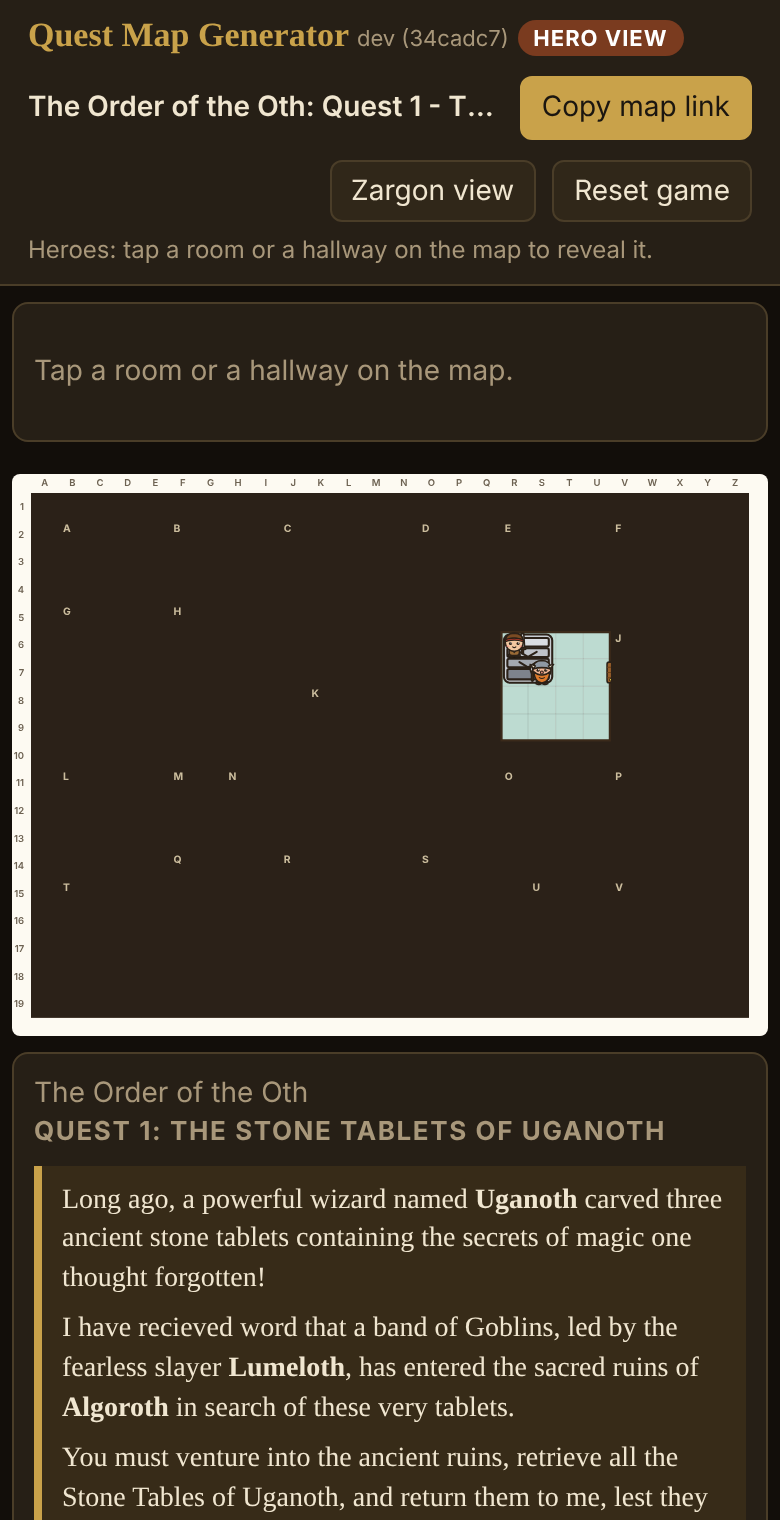
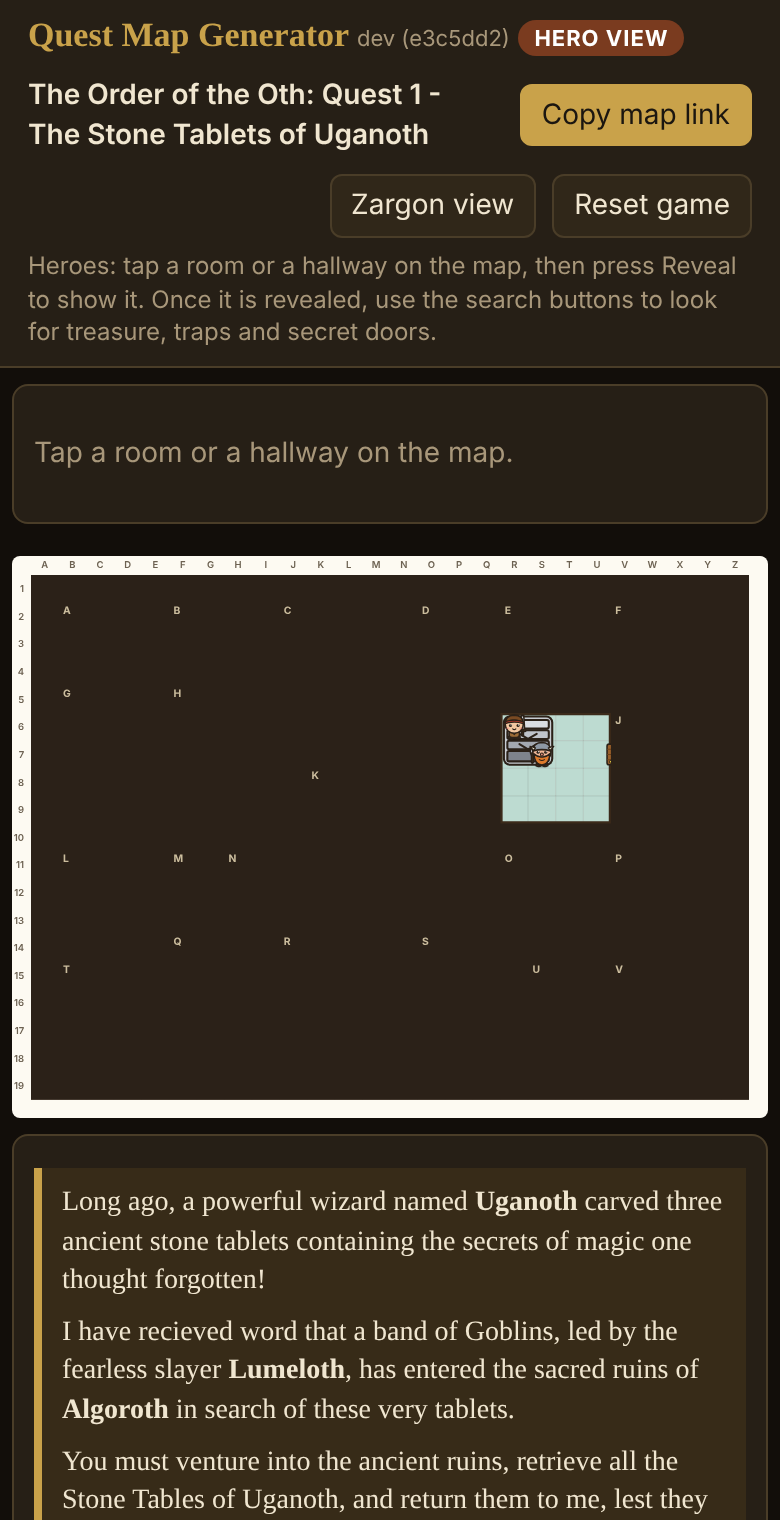
feat: hero header explains how to play and shows the whole quest line
The hero view header now carries a fuller how-to (tap, Reveal, then the
search buttons) and shows the series, number and title wrapped instead of
cut off. The quest card no longer repeats the title, so the same text is
not on screen twice.

This work was substantially AI-generated with human review and
direction throughout.

Vibe-Coder: Vibe-Coder 1.z3r0 <243014891+vibecoder-1z3r0@users.noreply.github.com>

diff --git a/src/js/ui.js b/src/js/ui.js
@@ -829,9 +829,7 @@ const HERO_SEARCHES = [
 function heroQuestCard() {
   const st = app.state;
   const card = el("section", { id: "hero-quest", class: "card" });
-  if (st.series) card.append(el("div", { class: "muted", text: st.series }));
-  const title = [st.num ? `Quest ${st.num}` : "", st.title].filter(Boolean).join(": ");
-  if (title) card.append(el("h2", { text: title }));
+  // The series, number and title are in the header (the quest line), so they are not repeated here.
   if (st.intro.trim()) card.append(heroText("hero-quote", st.intro));
   const monster = BY_ID.get(st.wmId);
   const wm = [monster?.name, st.wmText].filter(Boolean).join(" \u2013 ");

diff --git a/src/style.css b/src/style.css
@@ -41,6 +41,7 @@ body {
 .toprow { display: flex; align-items: center; gap: 10px; flex-wrap: wrap; }
 .head-title { flex: 1 1 120px; min-width: 0; overflow: hidden; text-overflow: ellipsis; white-space: nowrap; font-weight: 600; }
 .ver { font: 400 11px system-ui, sans-serif; color: var(--muted); }
+body.hero .head-title { overflow: visible; text-overflow: clip; white-space: normal; flex-basis: 200px; }
 #topbar h1 { margin: 0; font: 700 17px Georgia, serif; color: var(--accent); }
 .linkinfo { color: var(--muted); font-size: 12px; }
 .linkinfo.privacy::before { content: "\00B7"; margin-right: 10px; }

diff --git a/src/index.html b/src/index.html
@@ -33,7 +33,7 @@
   <div class="toprow subrow">
     <span id="linkinfo" class="linkinfo">The whole quest is in the link.</span>
     <span class="linkinfo privacy">Anyone with the link can read Zargon's secret notes.</span>
-    <span id="hero-hint" class="linkinfo" hidden>Heroes: tap a room or a hallway on the map to reveal it.</span>
+    <span id="hero-hint" class="linkinfo" hidden>Heroes: tap a room or a hallway on the map, then press Reveal to show it. Once it is revealed, use the search buttons to look for treasure, traps and secret doors.</span>
   </div>
 </header>
 

diff --git a/tests/test_hero_view.py b/tests/test_hero_view.py
@@ -114,6 +114,29 @@ def test_the_hero_view_shows_the_quest_text_the_wandering_monster_but_never_the_
     assert "TOP SECRET NOTES" not in text
 
 
+def test_the_hero_header_explains_how_to_play(page, site):
+    open_hero(page, site)
+    hint = page.locator("#hero-hint").inner_text()
+    for word in ("Tap", "Reveal", "search"):
+        assert word.lower() in hint.lower(), word
+
+
+def test_the_whole_quest_line_is_in_the_hero_header_on_a_phone_and_not_cut_off(page, site):
+    page.set_viewport_size({"width": 390, "height": 844})
+    st = hero_state(title="The Stone Tablets of Uganoth and the Long Road Home")
+    open_hero(page, site, st)
+    line = page.locator("#head-title")
+    assert line.inner_text() == "The Order: Quest 1 - " + st["title"]
+    assert line.evaluate("e => e.scrollWidth <= e.clientWidth + 1")
+
+
+def test_the_hero_quest_card_leaves_out_the_title_the_header_already_shows(page, site):
+    open_hero(page, site)
+    card = page.locator("#hero-quest").inner_text()
+    assert "Test quest" not in card and "The Order" not in card
+    assert "Long ago a wizard lived here." in card and "Wandering monster: Goblin" in card
+
+
 def test_hidden_regions_and_plain_corridor_are_covered_by_one_flat_fog(page, site):
     open_hero(page, site)
     assert fogged(page, 1, 1)  # room A is fogged

diff --git a/SESSION_LOG.md b/SESSION_LOG.md
@@ -223,17 +223,19 @@ Source: `/root/.claude/projects/-home-user-the-quest-map-generator/2be6d510-95bb
 | 212 | MAD - merged and deleted | 17:42:50 | 5s | 1h 10m ⏳ | 6 | 229 | 276 | 302,152 |
 | 213 | Ah - you can not search for treasure in the hallway.... | 18:53:54 | 1m 40s | 2s | 22 | 3,652 | 187,509 | 1,187,957 |
 | 214 | Unless there is a treasure chest... like if you make a makeshift room.… | 18:55:35 | 1m 40s | 45m 54s ⏳ | 22 | 5,176 | 5,429 | 1,402,089 |
-| 215 | Flip quest info and reveal on hero view. | 19:43:10 | 1m 39s | — | 18 | 4,610 | 8,119 | 1,114,336 |
+| 215 | Flip quest info and reveal on hero view. | 19:43:10 | 1m 46s | 2m 16s | 20 | 4,783 | 9,246 | 1,276,497 |
+| 216 | The helper text is twice in a row.  That's odd.  What else could we do… | 19:47:12 | 6s | 3m 1s | 8 | 1,240 | 52 | 326,922 |
+| 217 | Maybe more of an explanation in the header for hero view?  And could p… | 19:50:19 | 3m 29s | — | 58 | 17,117 | 34,593 | 4,646,623 |
 
-**Total turns:** 215  
-**Total agent time spent (excl. flagged):** 3h 42m  
-**Total human think time (excl. outliers):** 4h 15m  
-**Average human think time (excl. outliers):** 1m 24s  
+**Total turns:** 217  
+**Total agent time spent (excl. flagged):** 3h 46m  
+**Total human think time (excl. outliers):** 4h 20m  
+**Average human think time (excl. outliers):** 1m 25s  
 **Think-time outliers (> 15 min):** 31  
-**Total input tokens:** 4,963  
-**Total output tokens:** 2,473,029  
-**Total cache-write tokens:** 22,354,961  
-**Total cache-read tokens:** 908,325,416  
+**Total input tokens:** 5,031  
+**Total output tokens:** 2,491,559  
+**Total cache-write tokens:** 22,390,733  
+**Total cache-read tokens:** 913,461,122  
 **Cache hit ratio (cache-read ÷ all prompt-side tokens):** 98%
 
 ⚠ Turn(s) 179, 183, 193 had an 'agent time spent' over 30 min (total 1h 59m), which is implausible as real agent work — likely a transcript entry logged near session-resume time rather than when it actually ran. Excluded from the agent-time total above.

diff --git a/docs/HERO_VIEW.md b/docs/HERO_VIEW.md
@@ -132,6 +132,11 @@ one at the bottom touches room S.
 
 ## Notes since it was built
 
+- The hero header carries the quest line (series, number and title, wrapped rather than cut off) and a
+  short how-to: tap a room or hallway, press Reveal, then use the search buttons. The quest card
+  under the map no longer repeats the series and title; it holds the introduction and the wandering
+  monster.
+
 - A hallway (zone) has no "Search for treasure" button, because treasure is never searched for in a
   hallway, unless a treasure chest stands on one of its squares (a makeshift room). Its traps and
   secret-door searches always stay. The treasure text field is still in the authoring
